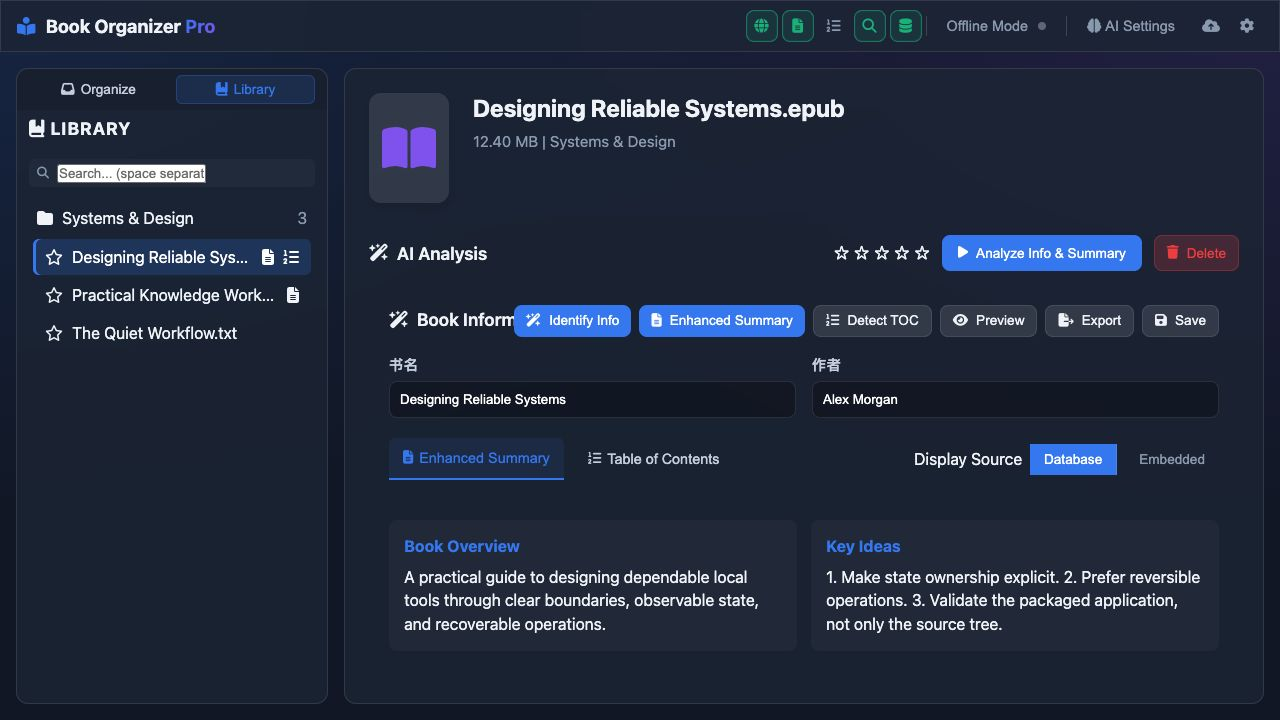
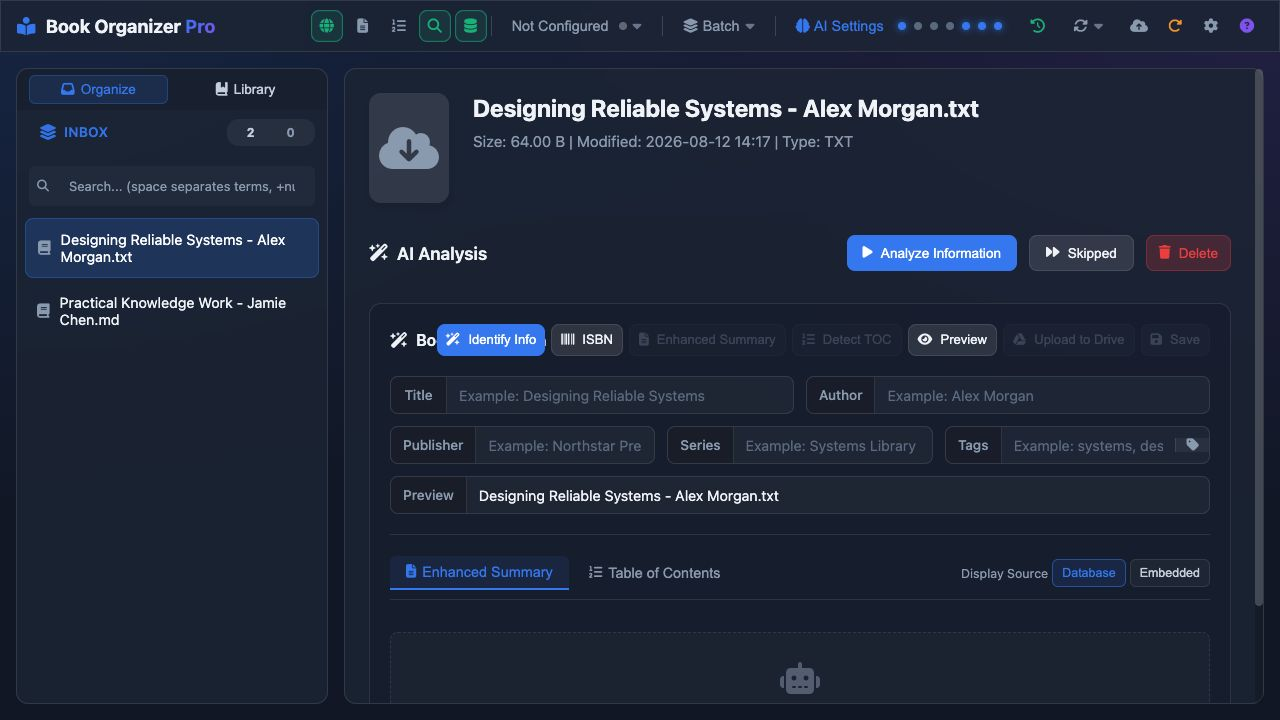
fix: complete English UI translation

diff --git a/static/i18n.js b/static/i18n.js
@@ -8,6 +8,16 @@
         '数据库增强': 'Database Enrichment',
         '自动上传到 Google Drive': 'Auto-upload to Google Drive',
         '离线模式': 'Offline Mode',
+        '未配置': 'Not Configured',
+        '本地功能可用': 'Local Features Available',
+        '批量': 'Batch',
+        '核心规则': 'Core Rules',
+        '增强规则': 'Enhanced Rules',
+        '附加规则': 'Additional Rules',
+        '历史参考': 'History Reference',
+        '字段提取': 'Field Extraction',
+        '内容与搜索控制': 'Content & Search Controls',
+        '目录规则': 'TOC Rules',
         '选择 AI 模型': 'Choose AI Model',
         '处理模式': 'Processing Mode',
         '批量增强': 'Batch Enrichment',
@@ -36,10 +46,27 @@
         '点击查看大图': 'View full cover',
         'AI 分析': 'AI Analysis',
         '开始信息及简介分析': 'Analyze Info & Summary',
+        '开始信息分析': 'Analyze Information',
         '停止分析': 'Stop Analysis',
         '图书信息': 'Book Information',
+        '大小': 'Size',
+        '修改时间': 'Modified',
+        '类型': 'Type',
+        '上传云盘': 'Upload to Drive',
+        '预览不可用 (文件可能未下载)': 'Preview unavailable (the file may not be downloaded)',
         '书名': 'Title',
         '作者': 'Author',
+        '支持多作者用 & 分隔': 'separate multiple authors with &',
+        '出版社': 'Publisher',
+        '丛书/系列': 'Series',
+        '标签 (逗号分隔)': 'Tags (comma-separated)',
+        '目标文件名预览': 'Target Filename Preview',
+        '点击上方按钮生成增强简介': 'Use the button above to generate an enhanced summary',
+        '例如: 时代的喧嚣': 'Example: Designing Reliable Systems',
+        '例如: [日] 村上春树': 'Example: Alex Morgan',
+        '例如: 中信出版社': 'Example: Northstar Press',
+        '例如: 理想国译丛': 'Example: Systems Library',
+        '例如: 文学, 诗歌': 'Example: systems, design',
         '识别信息': 'Identify Info',
         '增强简介': 'Enhanced Summary',
         '图书目录': 'Table of Contents',
@@ -109,6 +136,11 @@
         '连接成功': 'Connection successful',
         '：': ': '
     };
+    const exactTranslations = {
+        '出版': 'Publisher',
+        '丛书': 'Series',
+        '标签': 'Tags'
+    };
 
     const requestedLocale = new URLSearchParams(window.location.search).get('locale');
     const systemLocale = requestedLocale || navigator.language || navigator.userLanguage || 'en-US';
@@ -118,6 +150,10 @@
 
     function translate(value) {
         if (isChinese || typeof value !== 'string') return value;
+        const trimmed = value.trim();
+        if (exactTranslations[trimmed]) {
+            return value.replace(trimmed, exactTranslations[trimmed]);
+        }
         return pairs.reduce((text, [source, target]) => text.replaceAll(source, target), value);
     }
 

diff --git a/static/index.html b/static/index.html
@@ -2119,7 +2119,7 @@
     <!-- AI Config and Main App -->
     <script src="/static/ai_config.js"></script>
     <script src="/static/app.js?v=6"></script>
-    <script src="/static/i18n.js?v=3"></script>
+    <script src="/static/i18n.js?v=4"></script>
 </body>
 
 </html>
